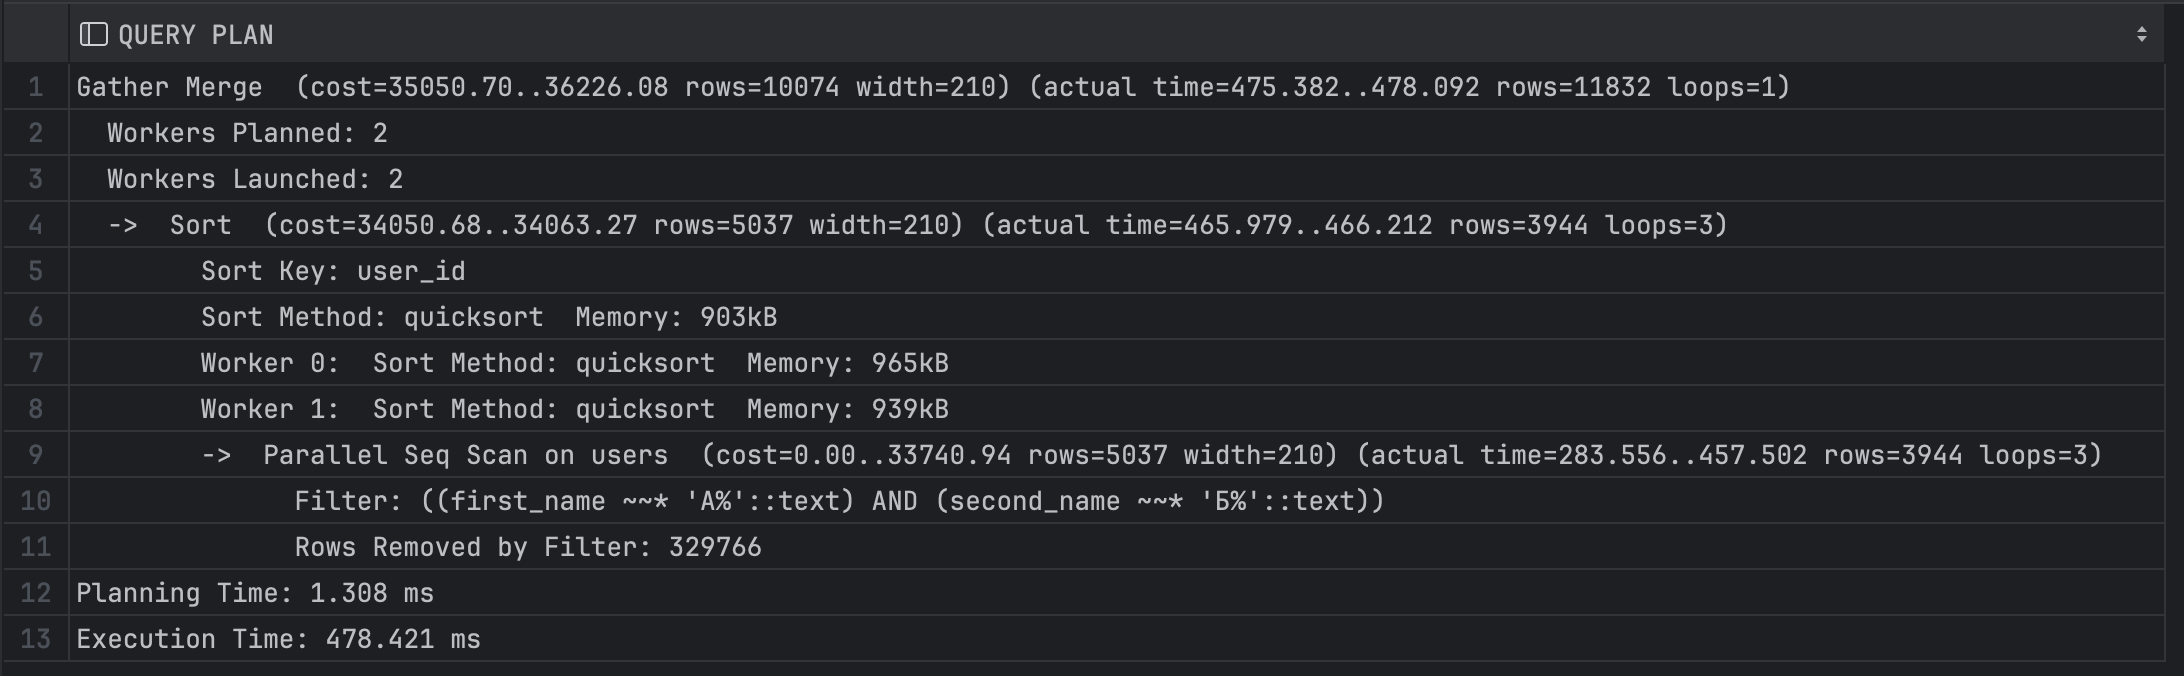
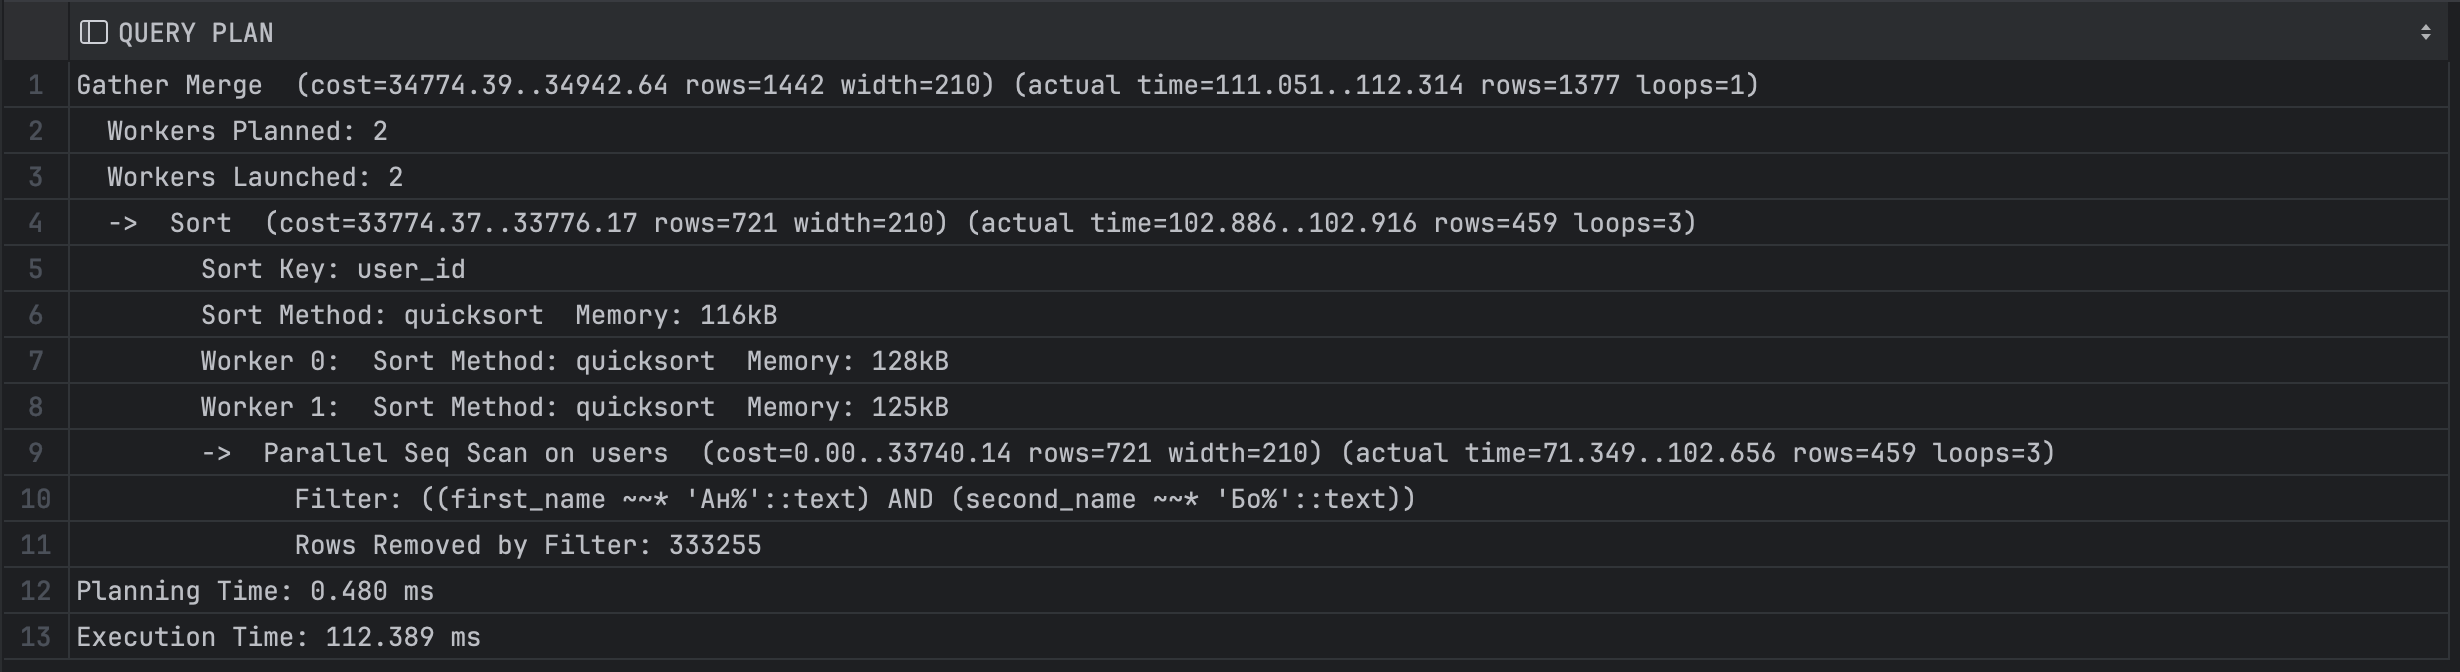
[#3] load testing after optimization

diff --git a/sn-data-loader/README.md b/sn-data-loader/README.md
@@ -9,8 +9,8 @@
 
 - Тестируем с помощью JMeter
 - Регистрируем пользователя и получаем токен для него заранее
-- Делаем запросы в ручку `/user/search?first_name=&second_name=`, в качестве параметров `first_name` и `second_name` передаем одну рандомную букву из списка `АБВГДЕЖЗИКЛМНОПРСТУШХФЭЯЧ`
-- Делаем 3 теста с различным количеством одновременных запросов: 1/10/100.
+- Делаем запросы в ручку `/user/search?first_name=&second_name=`, в качестве параметров `first_name` и `second_name` передаем две рандомные буквы из списка `АБВГДЕЖЗИКЛМНОПРСТУШХФЭЯЧ`
+- Делаем несколько тестов с различным количеством одновременных запросов
 - Длительность каждого теста 1 минута
 - Тест план лежит в папке `sn-data-loader/jmeter`
 
@@ -28,17 +28,6 @@ ORDER BY user_id;
   <img src="media/explain_before.png"  height="300" title="explain analyze before">
 </p>
 
-<h3 align="center"> 1 rps </h3>
-
-<p align="center">
-  <b>Latency</b><br>
-  <img src="media/1_lat.png"  height="400">
-</p>
-<p align="center">
-  <b>Throughput</b><br>
-  <img src="media/1_thr.png"  height="400">
-</p>
-
 <h3 align="center"> 10 rps </h3>
 
 <p align="center">
@@ -50,13 +39,83 @@ ORDER BY user_id;
   <img src="media/10_thr.png"  height="400">
 </p>
 
+<h3 align="center"> 25 rps </h3>
+
+<p align="center">
+  <b>Latency</b><br>
+  <img src="media/25_lat.png"  height="400">
+</p>
+<p align="center">
+  <b>Throughput</b><br>
+  <img src="media/25_thr.png"  height="400">
+</p>
+
+<h3 align="center"> 50 rps </h3>
+
+<p align="center">
+  <b>Latency</b><br>
+  <img src="media/50_lat.png"  height="400">
+</p>
+<p align="center">
+  <b>Throughput</b><br>
+  <img src="media/50_thr.png"  height="400">
+</p>
+
+<h2> Возможные оптимизации </h2>
+Для ускорения работы ручки предлагается сделать несколько вещей
+
+1. Нужен индекс по полям first_name и second_name. Так как поиск по префиксу, то будет работать B-Tree индекс, добавляем составной индекс на оба этих поля.
+2. Так как в запросе нет лимита, то стоит подумать над индексом для ускорения сортировки по user_id, так как выбираемых данных много. Индекс будет B-Tree, так как он хорошо работает при сортировке.
+
+<h2> Результаты после оптимизации </h2>
+
+- Запрос на построение индекса 
+```sql
+CREATE INDEX IF NOT EXISTS idx_first_name_second_name ON users (first_name, second_name);
+CREATE INDEX IF NOT EXISTS idx_user_id ON users (user_id);
+```
+
+- План запроса с индексами
+<p>
+  <img src="media/explain_after.png"  height="300">
+</p>
+
+<h3 align="center"> 10 rps </h3>
+
+<p align="center">
+  <b>Latency</b><br>
+  <img src="media/10_lat_idx.png"  height="400">
+</p>
+<p align="center">
+  <b>Throughput</b><br>
+  <img src="media/10_thr_idx.png"  height="400">
+</p>
+
+<h3 align="center"> 50 rps </h3>
+
+<p align="center">
+  <b>Latency</b><br>
+  <img src="media/50_lat_idx.png"  height="400">
+</p>
+<p align="center">
+  <b>Throughput</b><br>
+  <img src="media/50_thr_idx.png"  height="400">
+</p>
+
 <h3 align="center"> 100 rps </h3>
 
 <p align="center">
   <b>Latency</b><br>
-  <img src="media/100_lat.png"  height="400">
+  <img src="media/100_lat_idx.png"  height="400">
 </p>
 <p align="center">
   <b>Throughput</b><br>
-  <img src="media/100_thr.png"  height="400">
+  <img src="media/100_thr_idx.png"  height="400">
 </p>
+
+<h2> Выводы </h2>
+
+**Предложенные оптимизации позволят:**
+
+- улучшить latency запросов при различных rps
+- держать большую нагрузку, до добавления индексов приложение падало при 50rps, теперь оно способно держать 100 rps (правда с неадекватным latency)
